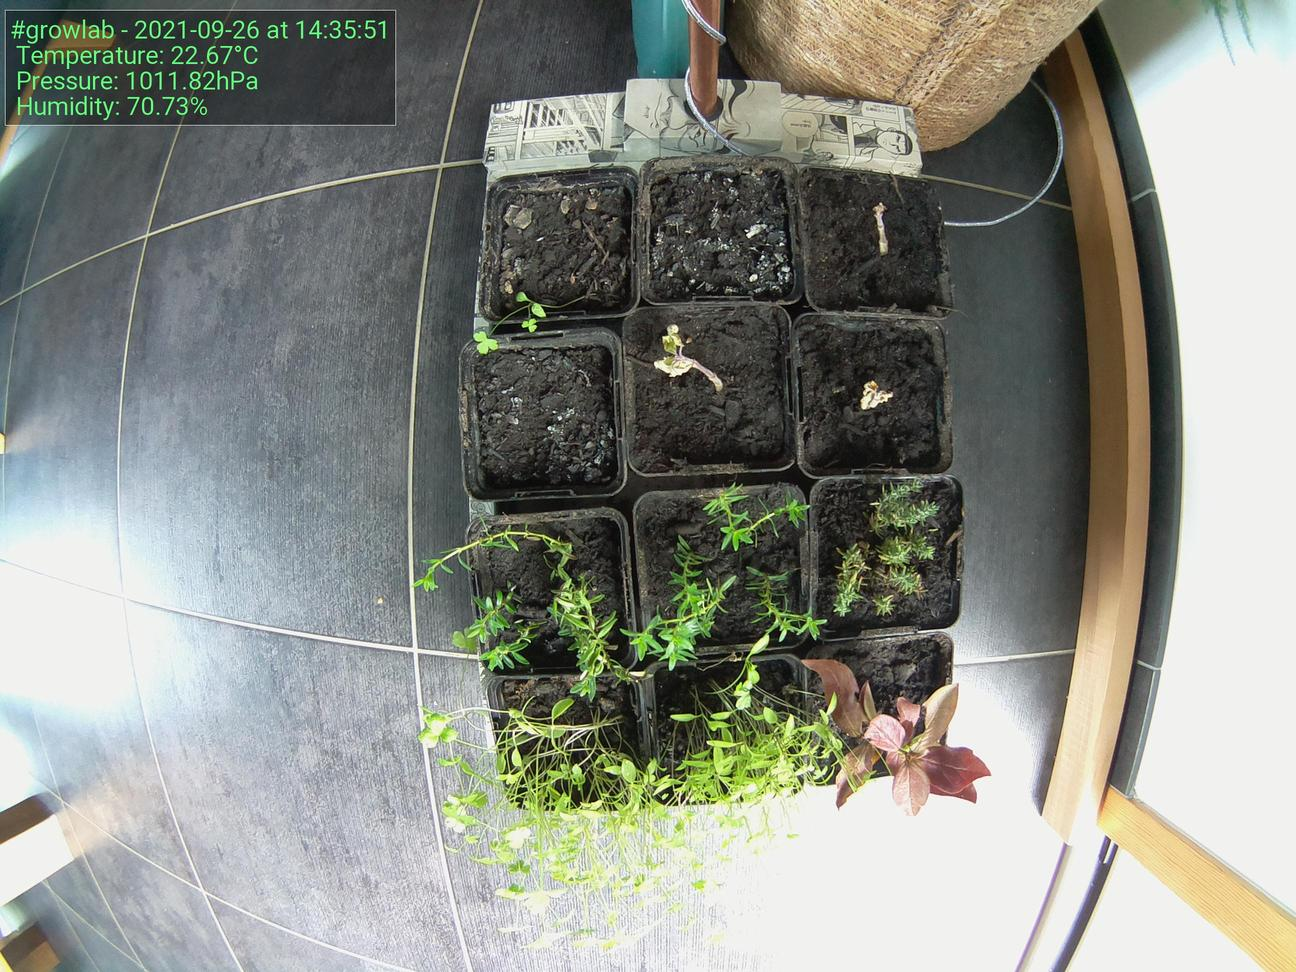
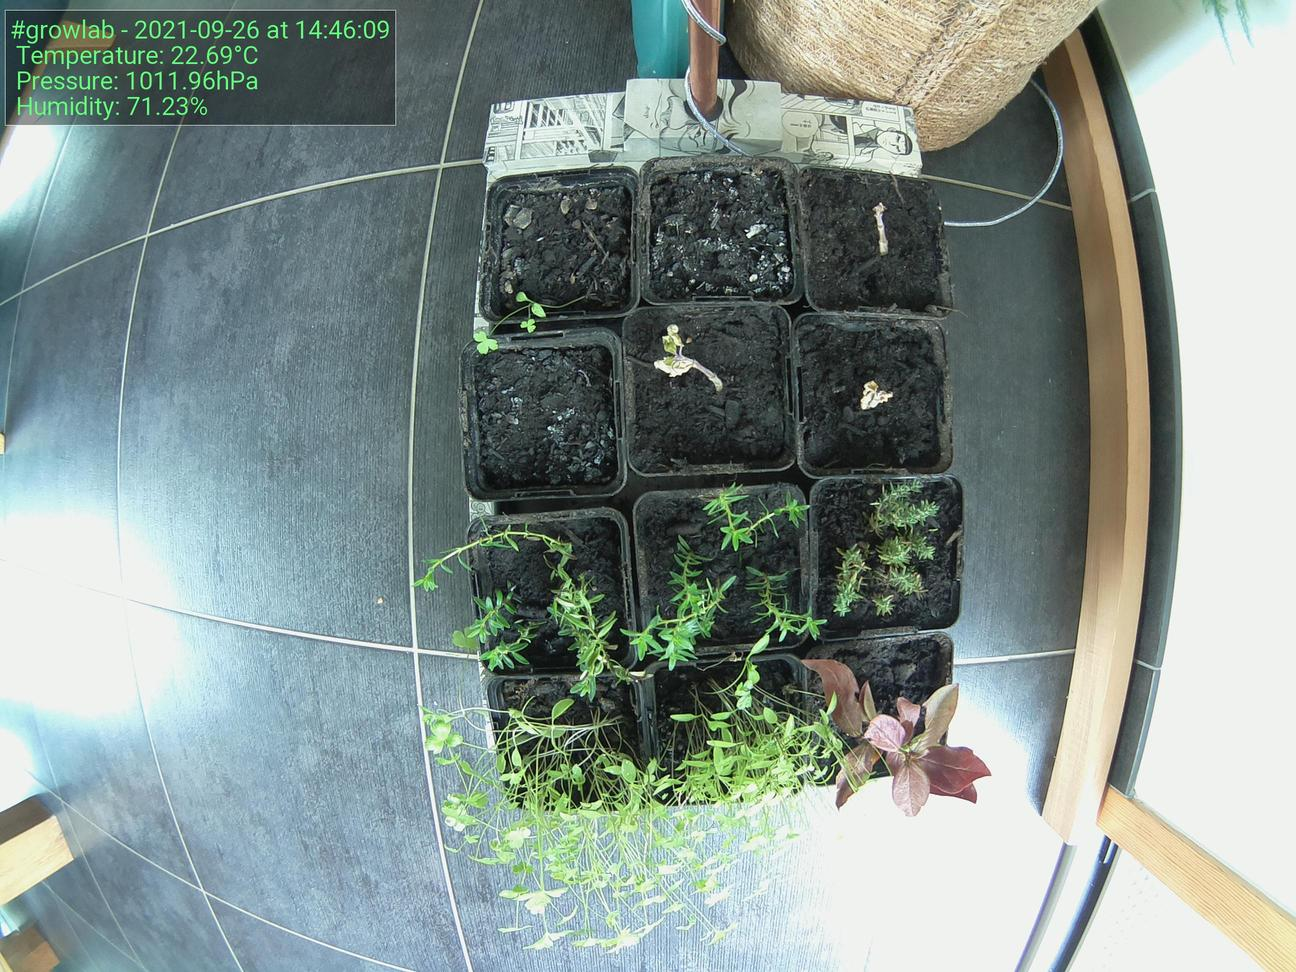
Update images at Sun 26 Sep 14:46:18 CEST 2021

diff --git a/docs/index.html b/docs/index.html
@@ -52,19 +52,19 @@
                             </tr>
                             <tr>
                                 <td>Time</td>
-                                <td>14:35:51</td>
+                                <td>14:46:09</td>
                             </tr>
                             <tr>
                                 <td>Temperature</td>
-                                <td>22.67°C</td>
+                                <td>22.69°C</td>
                             </tr>
                             <tr>
                                 <td>Humidity</td>
-                                <td>70.73%</td>
+                                <td>71.23%</td>
                             </tr>
                             <tr>
                                 <td>Pressure</td>
-                                <td>1011.82hPa</td>
+                                <td>1011.96hPa</td>
                             </tr>
                         </tbody>
                     </table>
@@ -72,7 +72,7 @@
 
                 <h5>Latest image</h5>
                 <div style="width: 85%;">
-                            <img class="figure-img img-fluid rounded" src="./preview.jpg?uid=1632659760.6295812">
+                            <img class="figure-img img-fluid rounded" src="./preview.jpg?uid=1632660377.6632814">
                 </div>
             </div>
         </div>
